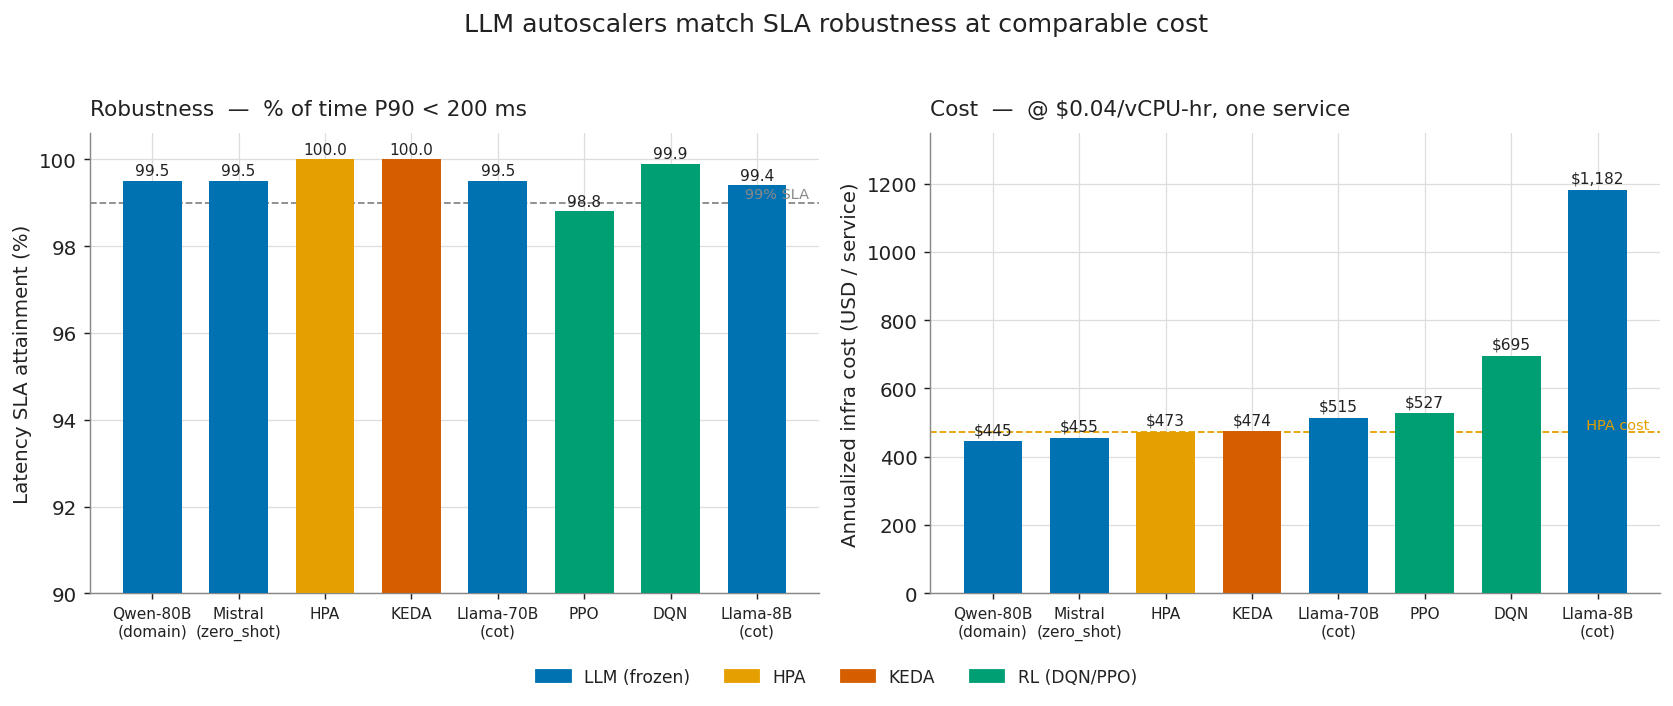
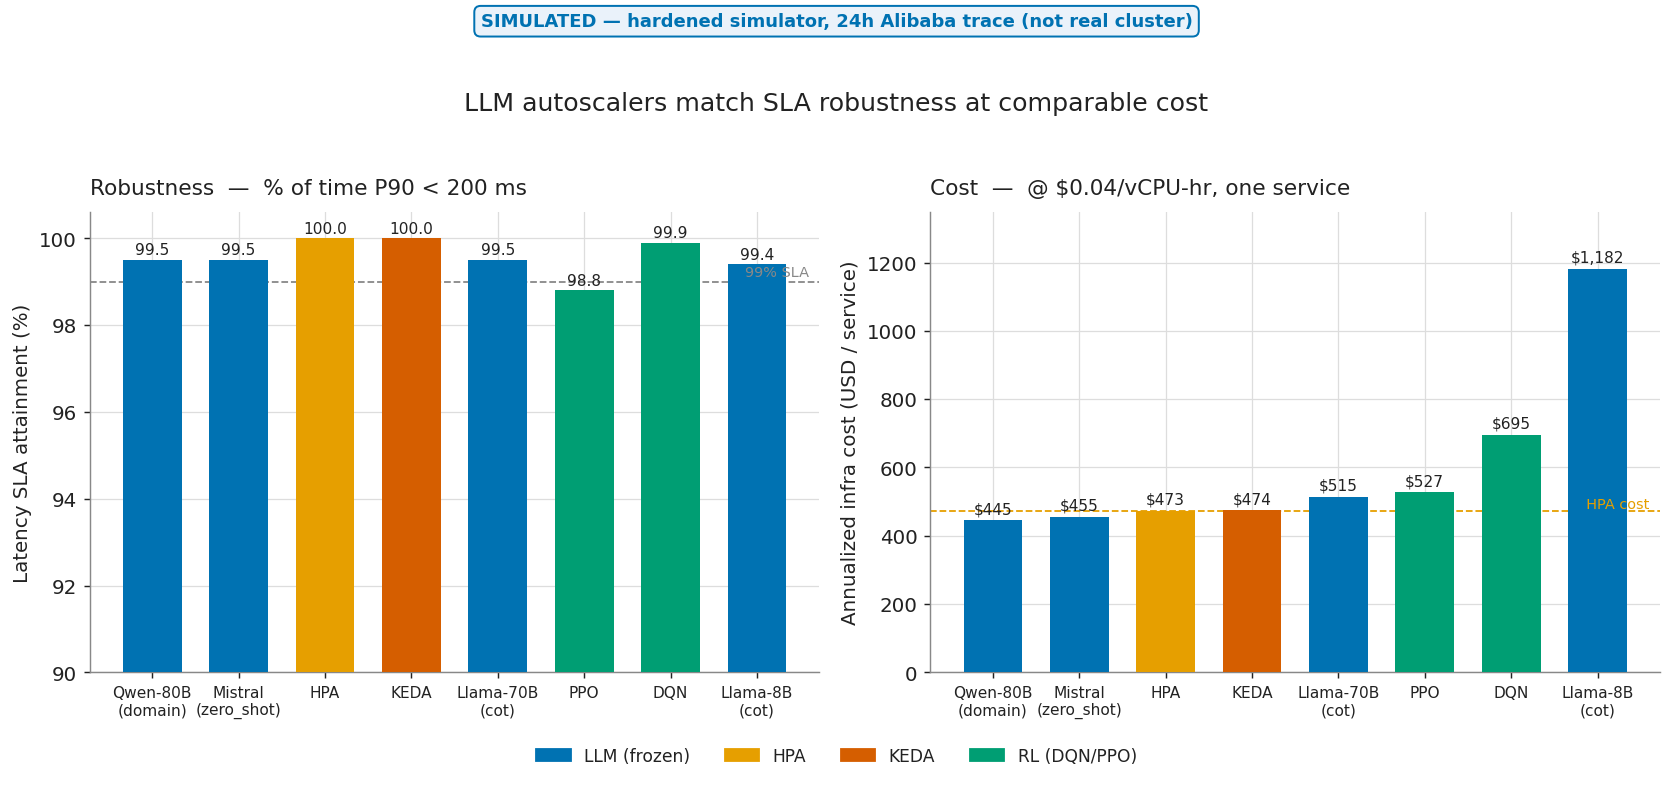
llm_autoscaler: label business-case plots by data source, add real-cluster figures
Every business-case figure now carries a visible source tag so it can't
be mistaken for the other: blue "SIMULATED -- hardened simulator, 24h
Alibaba trace" badge on the results_long_v2 figures, red-orange "REAL
K8S CLUSTER -- measured, not simulated" badge on the new
plot_business_case_real.py figures (results_k8s_v2, cpu + io workloads).

plot_business_case_real.py now generates the same three chart types as
the sim version (latency/cost bars, cost-vs-stability scatter,
stability bars), fixed to a real-cluster color/legend scheme and
per-workload filenames so cpu and io don't overwrite each other.

diff --git a/llm_autoscaler/plot_business_case_real.py b/llm_autoscaler/plot_business_case_real.py
@@ -17,6 +17,10 @@ import argparse
 import glob
 import os
 
+import matplotlib
+matplotlib.use("Agg")
+import matplotlib.pyplot as plt
+import numpy as np
 import pandas as pd
 
 VCPU_REQUEST = 0.25       # cpu: 250m request per replica (k8s/deployment.yaml, k8s/workloads.yaml)
@@ -25,11 +29,28 @@ HOURS_PER_YEAR = 8760.0
 SLA_MS = 200.0             # P90 latency SLA threshold (ms) — same as sim
 SLA_DEPLOYABLE = 99.0
 MIN_STEPS = 120            # only complete runs
+OUT_DIR = "business_case_real"
 
 BASELINE_MODELS = {"hpa": "HPA", "keda": "KEDA", "rl-dqn": "DQN", "rl-ppo": "PPO"}
 CORE_LLM_MODELS = ["llama-8b", "llama-70b", "mistral-small4", "qwen3-80b", "llama4-scout"]
 DISPLAY = {"llama-8b": "Llama-8B", "llama-70b": "Llama-70B", "mistral-small4": "Mistral",
            "qwen3-80b": "Qwen-80B", "llama4-scout": "Scout"}
+
+# Okabe-Ito, colorblind-safe — same palette as plot_business_case.py (sim) for
+# visual consistency; the REAL CLUSTER tag on every figure is what disambiguates.
+COLORS = {"LLM": "#0072B2", "HPA": "#E69F00", "KEDA": "#D55E00", "DQN": "#009E73", "PPO": "#009E73"}
+INK = "#222222"
+MUTED = "#888888"
+GRID = "#DDDDDD"
+SOURCE_TAG = "REAL K8S CLUSTER — measured, not simulated"
+TAG_COLOR = "#CC3311"  # red-orange: visually distinct from the sim tag's blue
+
+plt.rcParams.update({
+    "font.size": 11, "axes.edgecolor": MUTED, "axes.linewidth": 0.8,
+    "axes.grid": True, "grid.color": GRID, "grid.linewidth": 0.7,
+    "xtick.color": INK, "ytick.color": INK, "text.color": INK,
+    "axes.labelcolor": INK, "axes.titlecolor": INK, "figure.dpi": 130,
+})
 
 
 def parse_name(path):
@@ -95,6 +116,142 @@ def flat_label(row):
     return row.label if row.cls != "LLM" else f"{DISPLAY.get(row.model, row.model)}/{row.variant}"
 
 
+def bar_label(row):
+    return row.label if row.cls != "LLM" else f"{DISPLAY.get(row.model, row.model)}\n({row.variant})"
+
+
+def pick_representative(s):
+    """One config per core LLM model: cheapest with SLA >= threshold (else cheapest overall)."""
+    reps = []
+    for m in CORE_LLM_MODELS:
+        sub = s[s.model == m]
+        if sub.empty:
+            continue
+        ok = sub[sub.lat_sla >= SLA_DEPLOYABLE]
+        pick = (ok if not ok.empty else sub).sort_values("cost_usd").iloc[0]
+        reps.append(pick)
+    bases = s[s.model.isin(BASELINE_MODELS)]
+    if bases.empty and not reps:
+        return s
+    return pd.concat([pd.DataFrame(reps), bases]).reset_index(drop=True)
+
+
+def _tag(fig):
+    fig.text(0.01, 0.995, SOURCE_TAG, fontsize=9.5, fontweight="bold",
+              color=TAG_COLOR, va="top", ha="left")
+
+
+def _save(fig, name):
+    os.makedirs(OUT_DIR, exist_ok=True)
+    for ext in ("png", "pdf"):
+        fig.savefig(os.path.join(OUT_DIR, f"{name}.{ext}"), bbox_inches="tight")
+    plt.close(fig)
+    print(f"  wrote {OUT_DIR}/{name}.png")
+
+
+def fig_latency_cost(rep, source_label, suffix=""):
+    rep = rep.sort_values("cost_usd").reset_index(drop=True)
+    labels = [bar_label(r) for _, r in rep.iterrows()]
+    colors = [COLORS.get(c, COLORS["LLM"]) for c in rep.cls]
+    x = np.arange(len(rep))
+
+    fig, (axL, axR) = plt.subplots(1, 2, figsize=(13, 5.2))
+
+    axL.bar(x, rep.lat_sla, color=colors, width=0.68, zorder=3)
+    axL.set_ylim(0, 105)
+    axL.set_ylabel("Latency SLA attainment (%)")
+    axL.set_title(f"Robustness  —  % of time P90 < {SLA_MS:.0f} ms", fontsize=12, loc="left", pad=10)
+    axL.axhline(99, color=MUTED, ls="--", lw=1, zorder=1)
+    axL.text(-0.4, 99.5, "99% SLA", color=MUTED, fontsize=8, va="bottom", ha="left")
+    for xi, v in zip(x, rep.lat_sla):
+        axL.text(xi, v + 1.0, f"{v:.1f}", ha="center", va="bottom", fontsize=8.5)
+
+    axR.bar(x, rep.cost_usd, color=colors, width=0.68, zorder=3)
+    axR.set_ylabel("Annualized infra cost (USD / service)")
+    axR.set_title(f"Cost  —  @ ${VCPU_HOUR_USD:.2f}/vCPU-hr, one service", fontsize=12, loc="left", pad=10)
+    hpa_cost = rep[rep.model == "hpa"].cost_usd.values
+    if hpa_cost.size:
+        axR.axhline(hpa_cost[0], color=COLORS["HPA"], ls="--", lw=1, zorder=1)
+        axR.text(len(rep) - 0.4, hpa_cost[0], "  HPA cost", color=COLORS["HPA"],
+                 fontsize=8, va="bottom", ha="right")
+    top = rep.cost_usd.max()
+    for xi, v in zip(x, rep.cost_usd):
+        axR.text(xi, v + top * 0.01, f"${v:,.0f}", ha="center", va="bottom", fontsize=8.5)
+    axR.set_ylim(0, top * 1.14)
+
+    for ax in (axL, axR):
+        ax.set_xticks(x)
+        ax.set_xticklabels(labels, fontsize=8.5)
+        ax.set_axisbelow(True)
+        ax.spines[["top", "right"]].set_visible(False)
+
+    present = set(rep.cls)
+    legend_order = [c for c in ["LLM", "HPA", "KEDA", "PPO", "DQN"] if c in present]
+    legend_text = {"LLM": "LLM (frozen)", "HPA": "HPA", "KEDA": "KEDA", "PPO": "RL (PPO)", "DQN": "RL (DQN)"}
+    handles = [plt.Rectangle((0, 0), 1, 1, color=COLORS[c]) for c in legend_order]
+    fig.legend(handles, [legend_text[c] for c in legend_order],
+               loc="lower center", ncol=len(legend_order), frameon=False, fontsize=9.5, bbox_to_anchor=(0.5, -0.02))
+    fig.suptitle(f"Real cluster ({source_label}): LLM vs. rule-based autoscalers", fontsize=14, y=1.03)
+    fig.tight_layout(rect=[0, 0.04, 1, 0.95])
+    _tag(fig)
+    _save(fig, f"fig_business_latency_cost_real{suffix}")
+
+
+def fig_cost_stability(s, rep, source_label, suffix=""):
+    core = s[(s.model.isin(CORE_LLM_MODELS) | s.model.isin(BASELINE_MODELS))]
+    label_runs = set(rep.index)
+    fig, ax = plt.subplots(figsize=(9.5, 6.5))
+    for _, r in core.iterrows():
+        marker = "*" if r.cls == "LLM" else ("s" if r.cls in ("HPA", "KEDA") else "D")
+        sz = 340 if marker == "*" else 150
+        ax.scatter(r.cost_usd, r.scales, s=sz, c=COLORS.get(r.cls, COLORS["LLM"]), marker=marker,
+                   edgecolors="white", linewidths=0.9, zorder=3, alpha=0.92)
+        ax.annotate(flat_label(r), (r.cost_usd, r.scales), fontsize=7.5, color=INK,
+                    xytext=(6, 4), textcoords="offset points")
+
+    hpa_rows = rep[rep.model == "hpa"]
+    if not hpa_rows.empty:
+        hpa = hpa_rows.iloc[0]
+        ax.axvline(hpa.cost_usd, color=COLORS["HPA"], ls="--", lw=1, zorder=1)
+        ax.text(hpa.cost_usd, ax.get_ylim()[1] * 0.02, " HPA cost", color=COLORS["HPA"],
+                fontsize=8, ha="left", va="bottom")
+
+    ax.set_xlabel("Annualized infra cost (USD / service)  → cheaper is left")
+    ax.set_ylabel("Scaling actions over the run  → more stable is down")
+    ax.set_title(f"Real cluster ({source_label}): cost vs. stability  —  good corner is bottom-left",
+                 fontsize=12.5, loc="left")
+    ax.set_ylim(-5, max(core.scales.max() * 1.35, 10))
+    ax.spines[["top", "right"]].set_visible(False)
+    ax.set_axisbelow(True)
+    handles = [plt.Line2D([], [], marker=m, color="w", markerfacecolor=c,
+                          markersize=12, label=l, markeredgecolor="gray")
+               for m, c, l in [("*", COLORS["LLM"], "LLM (frozen)"), ("s", COLORS["HPA"], "HPA/KEDA"),
+                                ("D", COLORS["PPO"], "RL")]]
+    ax.legend(handles=handles, loc="upper right", frameon=False, fontsize=9.5)
+    fig.tight_layout()
+    _tag(fig)
+    _save(fig, f"fig_business_cost_stability_real{suffix}")
+
+
+def fig_stability(rep, source_label, suffix=""):
+    rep = rep.sort_values("scales").reset_index(drop=True)
+    labels = [bar_label(r) for _, r in rep.iterrows()]
+    colors = [COLORS.get(c, COLORS["LLM"]) for c in rep.cls]
+    x = np.arange(len(rep))
+    fig, ax = plt.subplots(figsize=(11, 4.8))
+    ax.bar(x, rep.scales, color=colors, width=0.68, zorder=3)
+    for xi, v in zip(x, rep.scales):
+        ax.text(xi, v + max(rep.scales.max(), 1) * 0.01, f"{v}", ha="center", va="bottom", fontsize=8.5)
+    ax.set_ylabel("Scaling actions over the run")
+    ax.set_title(f"Real cluster ({source_label}): operational stability  —  fewer scaling actions = less churn",
+                 fontsize=13, loc="left")
+    ax.set_xticks(x); ax.set_xticklabels(labels, fontsize=8.5)
+    ax.spines[["top", "right"]].set_visible(False); ax.set_axisbelow(True)
+    fig.tight_layout()
+    _tag(fig)
+    _save(fig, f"fig_business_stability_real{suffix}")
+
+
 def two_regime_verdict(s):
     lines = ["\n" + "=" * 78, "REAL-CLUSTER BUSINESS CASE", "=" * 78]
     if "hpa" not in set(s.model):
@@ -134,6 +291,7 @@ def main():
     ap.add_argument("--results-dir", default="results_k8s_v2")
     ap.add_argument("--workload", default="cpu", help="cpu, io, or '' for all")
     ap.add_argument("--out", default=None, help="CSV output path (default: <results-dir>_business_case.csv)")
+    ap.add_argument("--no-plots", action="store_true", help="skip figure generation, table + verdict only")
     args = ap.parse_args()
 
     s = load_summary(args.results_dir, args.workload or None)
@@ -143,9 +301,18 @@ def main():
         print("No complete runs found.")
         return
     out = args.out or f"{args.results_dir.rstrip('/')}_business_case.csv"
-    s.sort_values("cost_usd").to_csv(out, index=False)
+    s = s.sort_values("cost_usd")
+    s.to_csv(out, index=False)
     print(f"Summary table -> {out}")
-    two_regime_verdict(s.sort_values("cost_usd"))
+    two_regime_verdict(s)
+
+    if not args.no_plots:
+        source_label = f"{args.results_dir}, {args.workload or 'all'} workload"
+        suffix = f"_{args.workload}" if args.workload else ""
+        rep = pick_representative(s)
+        fig_latency_cost(rep, source_label, suffix)
+        fig_cost_stability(s, rep, source_label, suffix)
+        fig_stability(rep, source_label, suffix)
 
 
 if __name__ == "__main__":

diff --git a/llm_autoscaler/plot_business_case.py b/llm_autoscaler/plot_business_case.py
@@ -37,6 +37,8 @@ COLORS = {"LLM": "#0072B2", "HPA": "#E69F00", "KEDA": "#D55E00", "RL": "#009E73"
 INK = "#222222"
 MUTED = "#888888"
 GRID = "#DDDDDD"
+SOURCE_TAG = "SIMULATED — hardened simulator, 24h Alibaba trace (not real cluster)"
+TAG_COLOR = "#0072B2"  # blue: visually distinct from the real-cluster tag's red-orange
 
 CORE_MODELS = ["llama-8b", "llama-70b", "mistral-small4", "qwen3-80b"]
 BASELINES = {"hpa_baseline": "HPA", "keda_baseline": "KEDA",
@@ -155,6 +157,7 @@ def fig_latency_cost(rep):
                loc="lower center", ncol=4, frameon=False, fontsize=9.5, bbox_to_anchor=(0.5, -0.02))
     fig.suptitle("LLM autoscalers match SLA robustness at comparable cost", fontsize=14, y=1.0)
     fig.tight_layout(rect=[0, 0.04, 1, 0.97])
+    _tag(fig)
     _save(fig, "fig_business_latency_cost")
 
 
@@ -201,6 +204,7 @@ def fig_cost_stability(s, rep):
                for m, c, l in [("*", "LLM", "LLM (frozen)"), ("s", "HPA", "HPA/KEDA"), ("D", "RL", "RL")]]
     ax.legend(handles=handles, loc="center right", frameon=False, fontsize=9.5)
     fig.tight_layout()
+    _tag(fig)
     _save(fig, "fig_business_cost_stability")
 
 
@@ -219,6 +223,7 @@ def fig_stability(rep):
     ax.set_xticks(x); ax.set_xticklabels(labels, fontsize=8.5)
     ax.spines[["top", "right"]].set_visible(False); ax.set_axisbelow(True)
     fig.tight_layout()
+    _tag(fig)
     _save(fig, "fig_business_stability")
 
 
@@ -259,6 +264,12 @@ def two_regime_verdict(s, rep):
     lines.append("not raw SLA dominance. Present all three axes together.")
     lines.append("=" * 78)
     print("\n".join(lines))
+
+
+def _tag(fig):
+    fig.text(0.5, 1.09, SOURCE_TAG, fontsize=10, fontweight="bold",
+              color=TAG_COLOR, va="bottom", ha="center",
+              bbox=dict(boxstyle="round,pad=0.35", facecolor="#EAF2FA", edgecolor=TAG_COLOR, linewidth=1.1))
 
 
 def _save(fig, name):